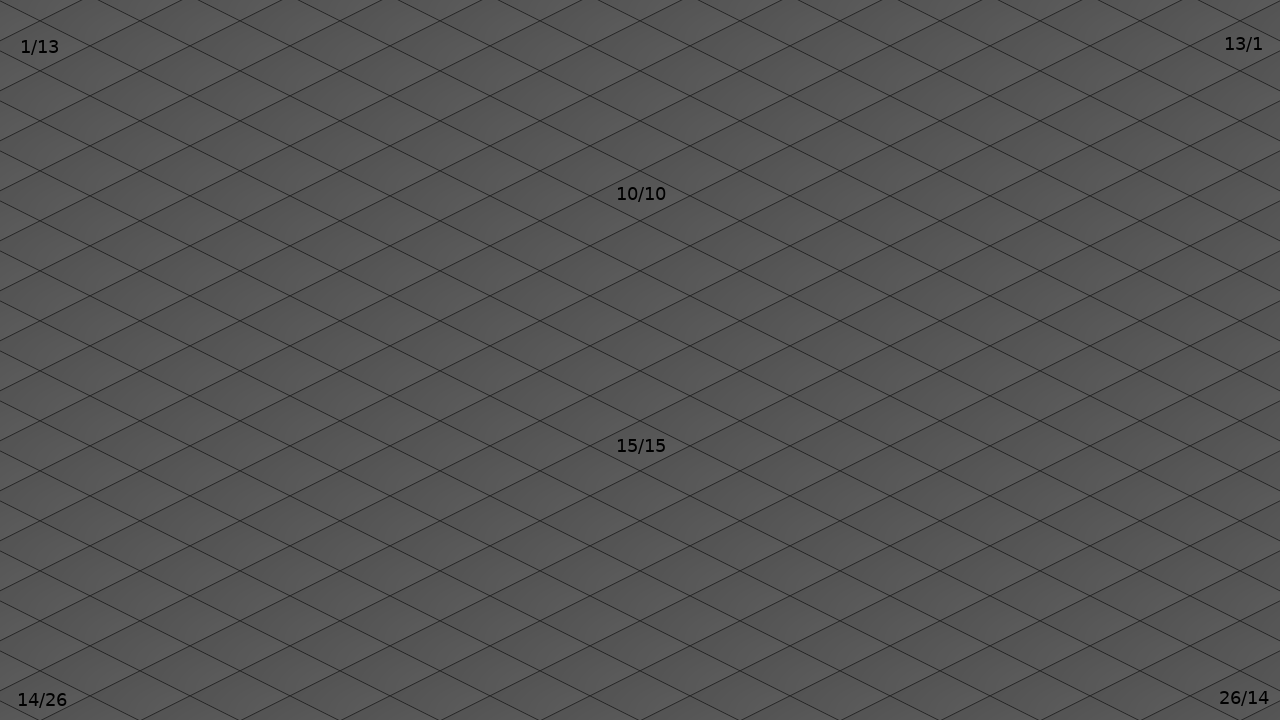
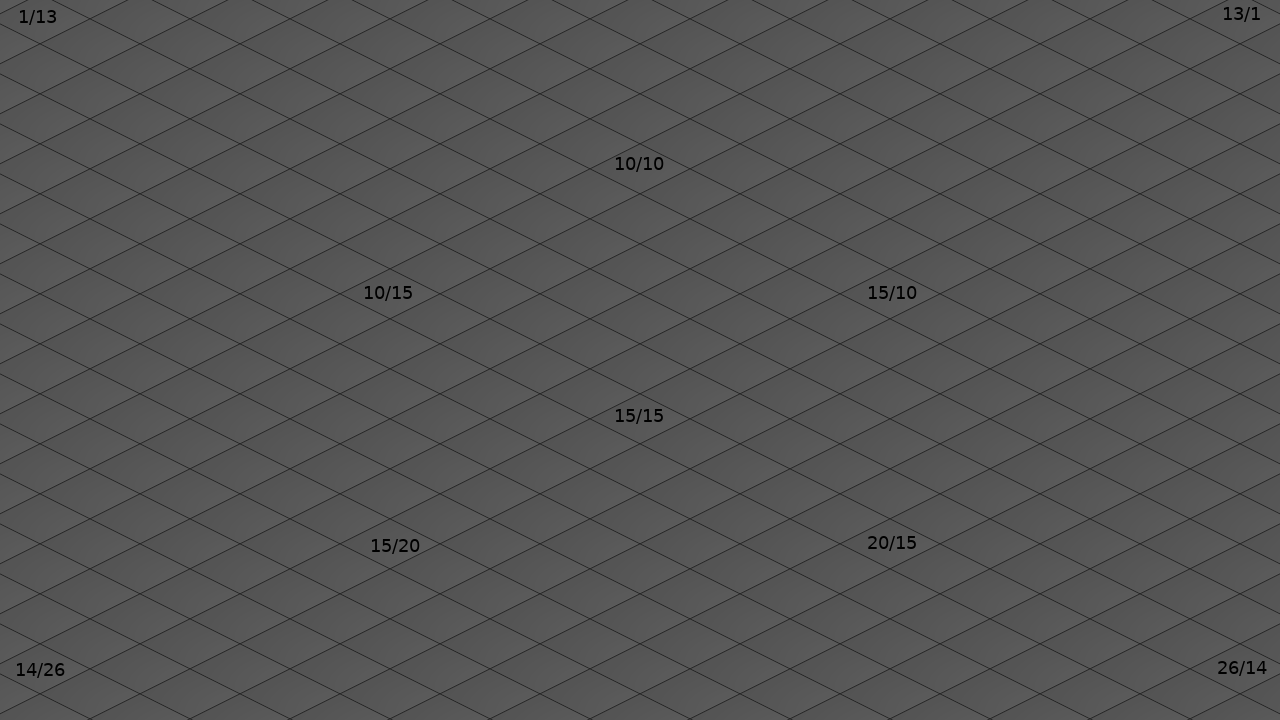
put background on the right place

diff --git a/src/main.cpp b/src/main.cpp
@@ -184,7 +184,7 @@ while(!quit)
 		SDL_RenderClear(renderer);
 
 		//add a setup background
-		renderTexture(C_Texture::getText("SetupBackground.png"), renderer, (C_Settings::getWindowWidth()/2),-28);
+		renderTexture(C_Texture::getText("SetupBackground.png"), renderer, (C_Settings::getWindowWidth()/2),0);
 
 		//display game content
 		displayGridContent(renderer, grid_units);
